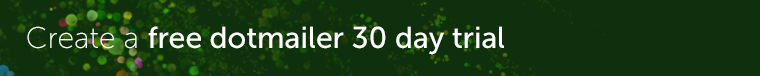
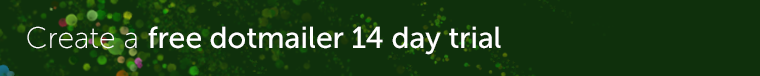
Merged PR 5791: Merge release/V6.3.9 to master
V6.3.9

Related work items: #57864, #58746, #59380, #62500, #62501, #62576, #63363, #63782, #64072

Changed region(s): [[0.4539, 0.3421, 0.6658, 0.7368]]

diff --git a/skin/adminhtml/default/default/connector/fancybox/jquery.fancybox.css b/skin/adminhtml/default/default/connector/fancybox/jquery.fancybox.css
@@ -53,6 +53,7 @@
 
 .fancybox-type-iframe .fancybox-inner {
     -webkit-overflow-scrolling: touch;
+    min-height: 668px;
 }
 
 .fancybox-error {

diff --git a/code/Dotdigitalgroup/Email/Model/Sales/Order.php b/code/Dotdigitalgroup/Email/Model/Sales/Order.php
@@ -112,7 +112,30 @@ class Dotdigitalgroup_Email_Model_Sales_Order
          * Add guest to contacts table.
          */
         if (! empty($this->_guests)) {
-            Mage::getResourceModel('ddg_automation/contact')->insertGuest($this->_guests);
+            $contactResource = Mage::getResourceModel('ddg_automation/contact');
+
+            //Get all keys
+            $orderEmails = array_keys($this->_guests);
+
+            //Find contacts that already exist
+            $contactsFoundFromGuestOrderEmails = Mage::getResourceModel('ddg_automation/contact_collection')
+                ->addFieldToFilter('email', array('in' => $orderEmails))
+                ->getColumnValues('email');
+
+            //Flip array to get email as key for array
+            $emailAsKeys = array_flip($contactsFoundFromGuestOrderEmails);
+
+            //Convert array keys to lowercase
+            $convertedArray = array_change_key_case($emailAsKeys,CASE_LOWER);
+
+            //Get all the entries from _guests not present in $convertedArray
+            $this->_guests = array_diff_key($this->_guests, $convertedArray);
+
+            //Insert new guests contacts
+            $contactResource->insertGuest($this->_guests);
+
+            //Mark the existing contacts with is guest in bulk
+            $contactResource->updateContactsAsGuests($contactsFoundFromGuestOrderEmails);
         }
 
         if ($this->countOrders) {
@@ -241,9 +264,10 @@ class Dotdigitalgroup_Email_Model_Sales_Order
                     && $order->getCustomerEmail()
                 ) {
                     //add guest to the list
-                    if (! isset($this->_guests[$order->getCustomerEmail()])) {
-                        $this->_guests[$order->getCustomerEmail()] = array(
-                            'email' => $order->getCustomerEmail(),
+                    $email = strtolower($order->getCustomerEmail());
+                    if (! isset($this->_guests[$email])) {
+                        $this->_guests[$email] = array(
+                            'email' => $email,
                             'website_id' => $websiteId,
                             'store_id' => $storeId,
                             'is_guest' => 1

diff --git a/code/Dotdigitalgroup/Email/Helper/Transactional.php b/code/Dotdigitalgroup/Email/Helper/Transactional.php
@@ -1,16 +1,13 @@
 <?php
 
-class Dotdigitalgroup_Email_Helper_Transactional
-    extends Mage_Core_Helper_Abstract
+class Dotdigitalgroup_Email_Helper_Transactional extends Mage_Core_Helper_Abstract
 {
-
-    const XML_PATH_DDG_TRANSACTIONAL_ENABLED = 'connector_transactional_emails/ddg_transactional/enabled';
-    const XML_PATH_DDG_TRANSACTIONAL_HOST = 'connector_transactional_emails/ddg_transactional/host';
-    const XML_PATH_DDG_TRANSACTIONAL_USERNAME = 'connector_transactional_emails/ddg_transactional/username';
-    const XML_PATH_DDG_TRANSACTIONAL_PASSWORD = 'connector_transactional_emails/ddg_transactional/password';
-    const XML_PATH_DDG_TRANSACTIONAL_PORT = 'connector_transactional_emails/ddg_transactional/port';
-    const XML_PATH_DDG_TRANSACTIONAL_DEBUG = 'connector_transactional_emails/ddg_transactional/debug_mode';
-
+    const XML_PATH_DDG_TRANSACTIONAL_ENABLED    = 'connector_transactional_emails/ddg_transactional/enabled';
+    const XML_PATH_DDG_TRANSACTIONAL_HOST       = 'connector_transactional_emails/ddg_transactional/host';
+    const XML_PATH_DDG_TRANSACTIONAL_USERNAME   = 'connector_transactional_emails/ddg_transactional/username';
+    const XML_PATH_DDG_TRANSACTIONAL_PASSWORD   = 'connector_transactional_emails/ddg_transactional/password';
+    const XML_PATH_DDG_TRANSACTIONAL_PORT       = 'connector_transactional_emails/ddg_transactional/port';
+    const XML_PATH_DDG_TRANSACTIONAL_DEBUG      = 'connector_transactional_emails/ddg_transactional/debug_mode';
 
     /**
      * Transactional Email enabled.
@@ -47,7 +44,9 @@ class Dotdigitalgroup_Email_Helper_Transactional
      */
     public function getSmtpPassword($storeId = null)
     {
-        return Mage::getStoreConfig(self::XML_PATH_DDG_TRANSACTIONAL_PASSWORD, $storeId);
+        $pass = Mage::getStoreConfig(self::XML_PATH_DDG_TRANSACTIONAL_PASSWORD, $storeId);
+
+        return Mage::helper('core')->decrypt($pass);
     }
 
     /**

diff --git a/code/Dotdigitalgroup/Email/controllers/Adminhtml/Email/StudioController.php b/code/Dotdigitalgroup/Email/controllers/Adminhtml/Email/StudioController.php
@@ -45,14 +45,11 @@ class Dotdigitalgroup_Email_Adminhtml_Email_StudioController
      */
     public function generatetokenAction()
     {
-        //check for secure url
-        $adminUser    = Mage::getSingleton('admin/session')->getUser();
-        $refreshToken = Mage::getSingleton('admin/user')->load(
-            $adminUser->getId()
-        )->getRefreshToken();
+        $userId = Mage::getSingleton('admin/session')->getUser()->getId();
+        $adminUser = Mage::getSingleton('admin/user')->load($userId);
+        $refreshToken = Mage::helper('core')->decrypt($adminUser->getRefreshToken());
 
         if ($refreshToken) {
-            $code   = Mage::helper('ddg')->getCode();
             $params = 'client_id=' . Mage::getStoreConfig(
                 Dotdigitalgroup_Email_Helper_Config::XML_PATH_CONNECTOR_CLIENT_ID
             ) .
@@ -64,9 +61,6 @@ class Dotdigitalgroup_Email_Adminhtml_Email_StudioController
 
             $url = Mage::helper('ddg/config')->getTokenUrl();
 
-            Mage::helper('ddg')->log(
-                'token code : ' . $code . ', params : ' . $params
-            );
             //@codingStandardsIgnoreStart
             /**
              * Refresh Token request.
@@ -88,7 +82,7 @@ class Dotdigitalgroup_Email_Adminhtml_Email_StudioController
 
             if (isset($response->error)) {
                 Mage::helper('ddg')->log(
-                    "Token Error Num`ber:" . curl_errno($ch) . "Error String:"
+                    "Token Error Number:" . curl_errno($ch) . "Error String:"
                     . curl_error($ch)
                 );
             }

diff --git a/code/Dotdigitalgroup/Email/Model/Resource/Contact.php b/code/Dotdigitalgroup/Email/Model/Resource/Contact.php
@@ -339,19 +339,11 @@ class Dotdigitalgroup_Email_Model_Resource_Contact extends Mage_Core_Model_Resou
     /**
      * Insert multiple contacts to table.
      *
-     * @param $data
+     * @param $guests
      */
-    public function insertGuest($data)
+    public function insertGuest($guests)
     {
         try {
-            $contacts = array_keys($data);
-            $emailsExistInTable = Mage::getModel('ddg_automation/contact')
-                ->getCollection()
-                ->addFieldToFilter('email', array('in' => $contacts))
-                ->getColumnValues('email');
-
-            $guests = array_diff_key($data, array_flip($emailsExistInTable));
-
             if (! empty($guests)) {
                 $write = $this->_getWriteAdapter();
                 $write->insertMultiple($this->getMainTable(), $guests);
@@ -407,6 +399,20 @@ class Dotdigitalgroup_Email_Model_Resource_Contact extends Mage_Core_Model_Resou
             );
         } catch (Exception $e) {
             Mage::throwException($e->getMessage());
+        }
+    }
+
+    /**
+     * @param $guests
+     */
+    public function updateContactsAsGuests($guests)
+    {
+        $write  = $this->_getWriteAdapter();
+        if (! empty($guests)) {
+            //make sure the contact are marked as guests if already exists
+            $where = array('email IN (?)' => $guests, 'is_guest IS NULL');
+            $data = array('is_guest' => 1);
+            $write->update($this->getMainTable(), $data, $where);
         }
     }
 }

diff --git a/code/Dotdigitalgroup/Email/sql/email_connector_setup/mysql4-upgrade-6.3.8-6.3.9.php b/code/Dotdigitalgroup/Email/sql/email_connector_setup/mysql4-upgrade-6.3.8-6.3.9.php
@@ -1,0 +1,32 @@
+<?php
+//@codingStandardsIgnoreStart
+/** @var Mage_Eav_Model_Entity_Setup $installer */
+
+$installer = $this;
+$installer->startSetup();
+
+
+$configData = Mage::getModel('core/config_data')->getCollection()
+    ->addFieldToFilter('path', Dotdigitalgroup_Email_Helper_Transactional::XML_PATH_DDG_TRANSACTIONAL_PASSWORD);
+foreach ($configData as $config) {
+    $value = $config->getValue();
+    //pass value not empty
+    if ($value) {
+        $config->setValue(Mage::helper('core')->encrypt($value))
+            ->save();
+    }
+}
+//admin users token
+$adminUsers = Mage::getModel('admin/user')->getCollection()
+    ->addFieldToFilter('refresh_token', array('notnull' => true));
+/** @var Mage_Admin_Model_User $adminUser */
+foreach ($adminUsers as $adminUser) {
+    $token = $adminUser->getRefreshToken();
+    $adminUser->setRefreshToken(Mage::helper('core')->encrypt($token))
+        ->save();
+}
+
+//clean the cache for config
+Mage::getModel('core/config')->cleanCache();
+
+$installer->endSetup();

diff --git a/code/Dotdigitalgroup/Email/controllers/EmailController.php b/code/Dotdigitalgroup/Email/controllers/EmailController.php
@@ -156,14 +156,15 @@ class Dotdigitalgroup_Email_EmailController
                 array('Content-Type: application/x-www-form-urlencoded')
             );
 
-
             $response = json_decode(curl_exec($ch));
             if ($response === false) {
                 Mage::helper('ddg')->log("Error Number: " . curl_errno($ch));
             }
 
             //save the refresh token to the admin user
-            $adminUser->setRefreshToken($response->refresh_token)->save();
+            $token = Mage::helper('core')->encrypt($response->refresh_token);
+            $adminUser->setRefreshToken($token)
+                ->save();
             //@codingStandardsIgnoreEnd
         }
 

diff --git a/code/Dotdigitalgroup/Email/Helper/Data.php b/code/Dotdigitalgroup/Email/Helper/Data.php
@@ -535,17 +535,6 @@ class Dotdigitalgroup_Email_Helper_Data extends Mage_Core_Helper_Abstract
     }
 
     /**
-     * Retrieve authorisation code.
-     */
-    public function getCode()
-    {
-        $adminUser = Mage::getSingleton('admin/session')->getUser();
-        $code = $adminUser->getEmailCode();
-
-        return $code;
-    }
-
-    /**
      * Autorisation url for OAUTH.
      *
      * @return string

diff --git a/code/Dotdigitalgroup/Email/Model/Apiconnector/Customer.php b/code/Dotdigitalgroup/Email/Model/Apiconnector/Customer.php
@@ -176,7 +176,7 @@ class Dotdigitalgroup_Email_Model_Apiconnector_Customer
         $lastTransfers = $tbtReward->getTransfers()
             ->selectOnlyActive()
             ->addOrder(
-                'last_update_ts', Varien_Data_Collection::SORT_ORDER_DESC
+                'updated_at', Varien_Data_Collection::SORT_ORDER_DESC
             );
 
         $spent = $earn = null;

diff --git a/README.md b/README.md
@@ -33,11 +33,26 @@ Compatibility
 
 You are welcome to contribute to dotmailer for Magento! You can either:
 - Report a bug: create a [GitHub issue](https://github.com/dotmailer/dotmailer-magento-extension/issues/new) including description, repro steps, Magento and extension version numbers
-- Fix a bug: please fork this repo and submit the Pull Request to our [Testing branch](https://github.com/dotmailer/dotmailer-magento-extension/tree/testing)
+- Fix a bug: please fork this repo and submit the Pull Request to our [Develop branch](https://github.com/dotmailer/dotmailer-magento-extension/tree/develop)
 - Request a feature on our [community forum](https://support.dotmailer.com/hc/en-gb/community/topics/200432508-Feedback-and-feature-requests)
 
+# V6.3.9
+
+###### Improvements:
+- We've improved the password encryption using Magento's encryption framework.
+- Transactional email settings can now be set at the store level.
+
+###### Bug fixes:
+- We've fixed the process for abandoned carts when the first one is disabled.
+- We used to create duplicated contacts when email addresses did not match with the same case; this no longer happens.
+- We've fixed an error related to importing orders having both virtual and physical products.
+- In the case where Magento's double opt-in setting ('Need to confirm') was enabled, we used to import subscribers before they confirmed; this is now fixed.
+- We've fixed a typo regarding the number of days in the trial sign up banner.
 
 # V6.3.8
+
+###### Improvements
+- We've improved the way we update contacts before sending abandoned cart emails in a multi website context so that they no longer risk to recieve a wrong cart content from a different website.
 
 ###### Bug fixes
 - We've changed the validation of new subscribers for automation so that they no longer get enrolled multiple times into the new subscriber program.
